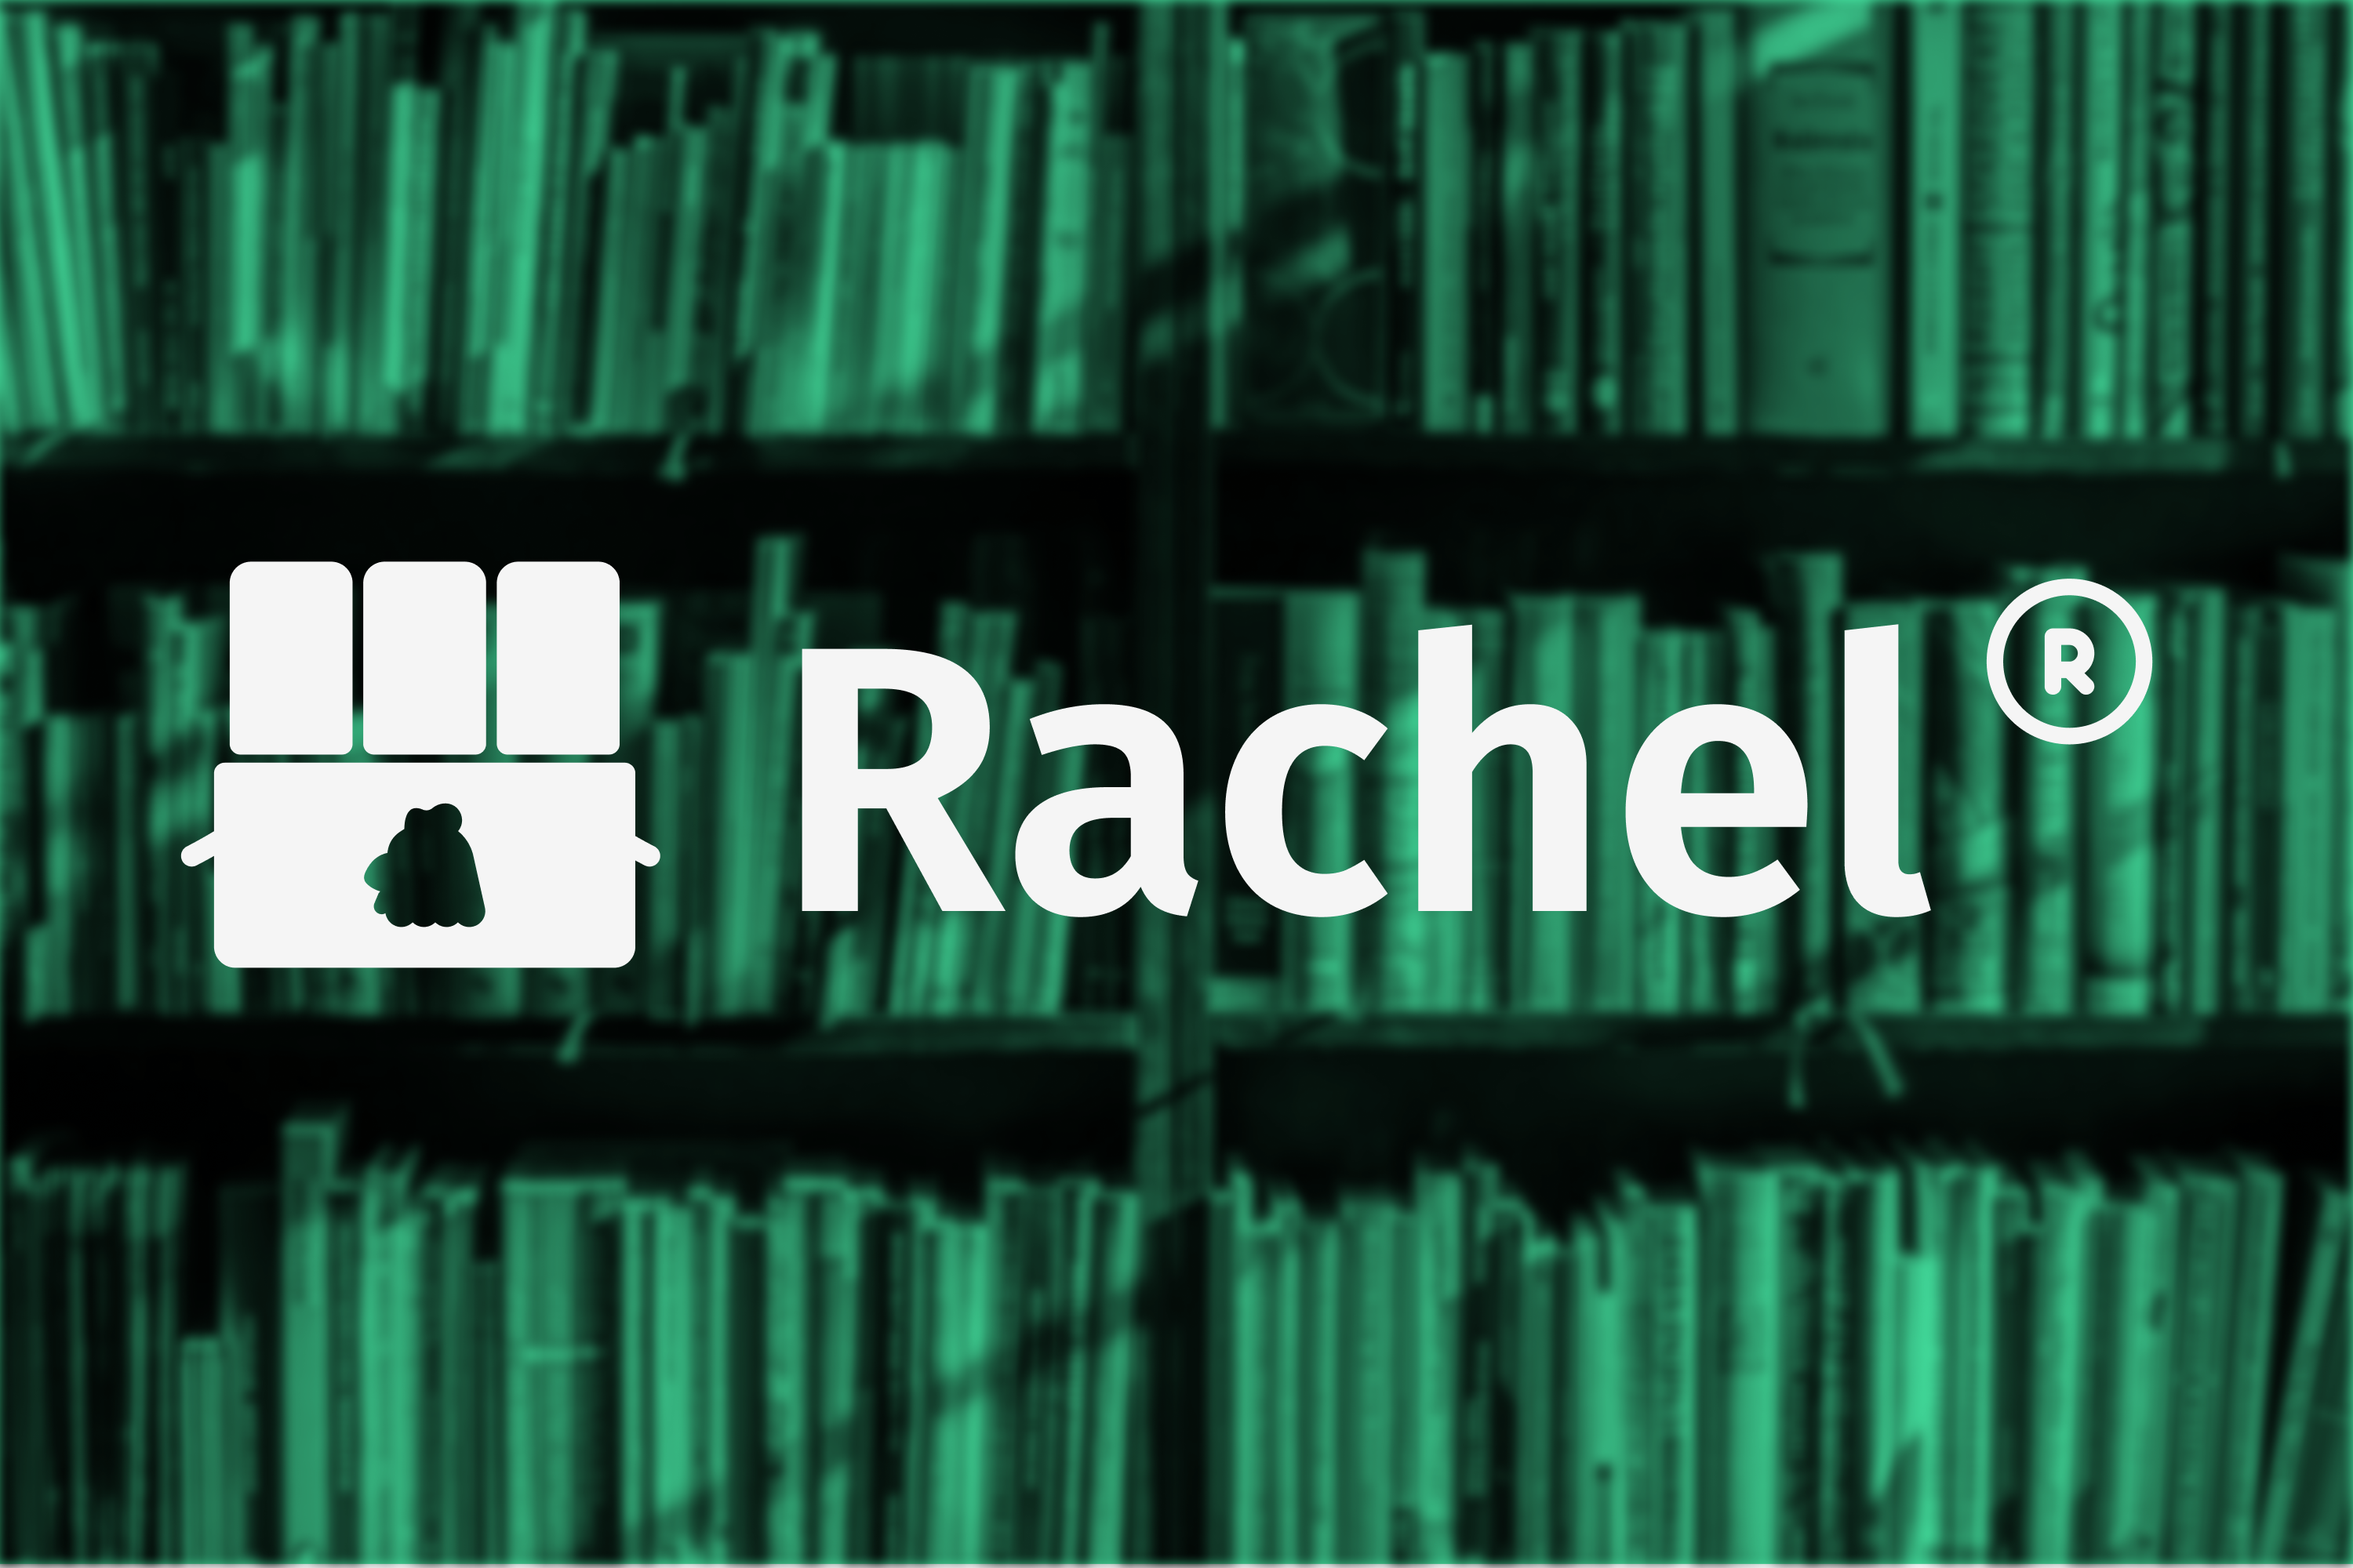
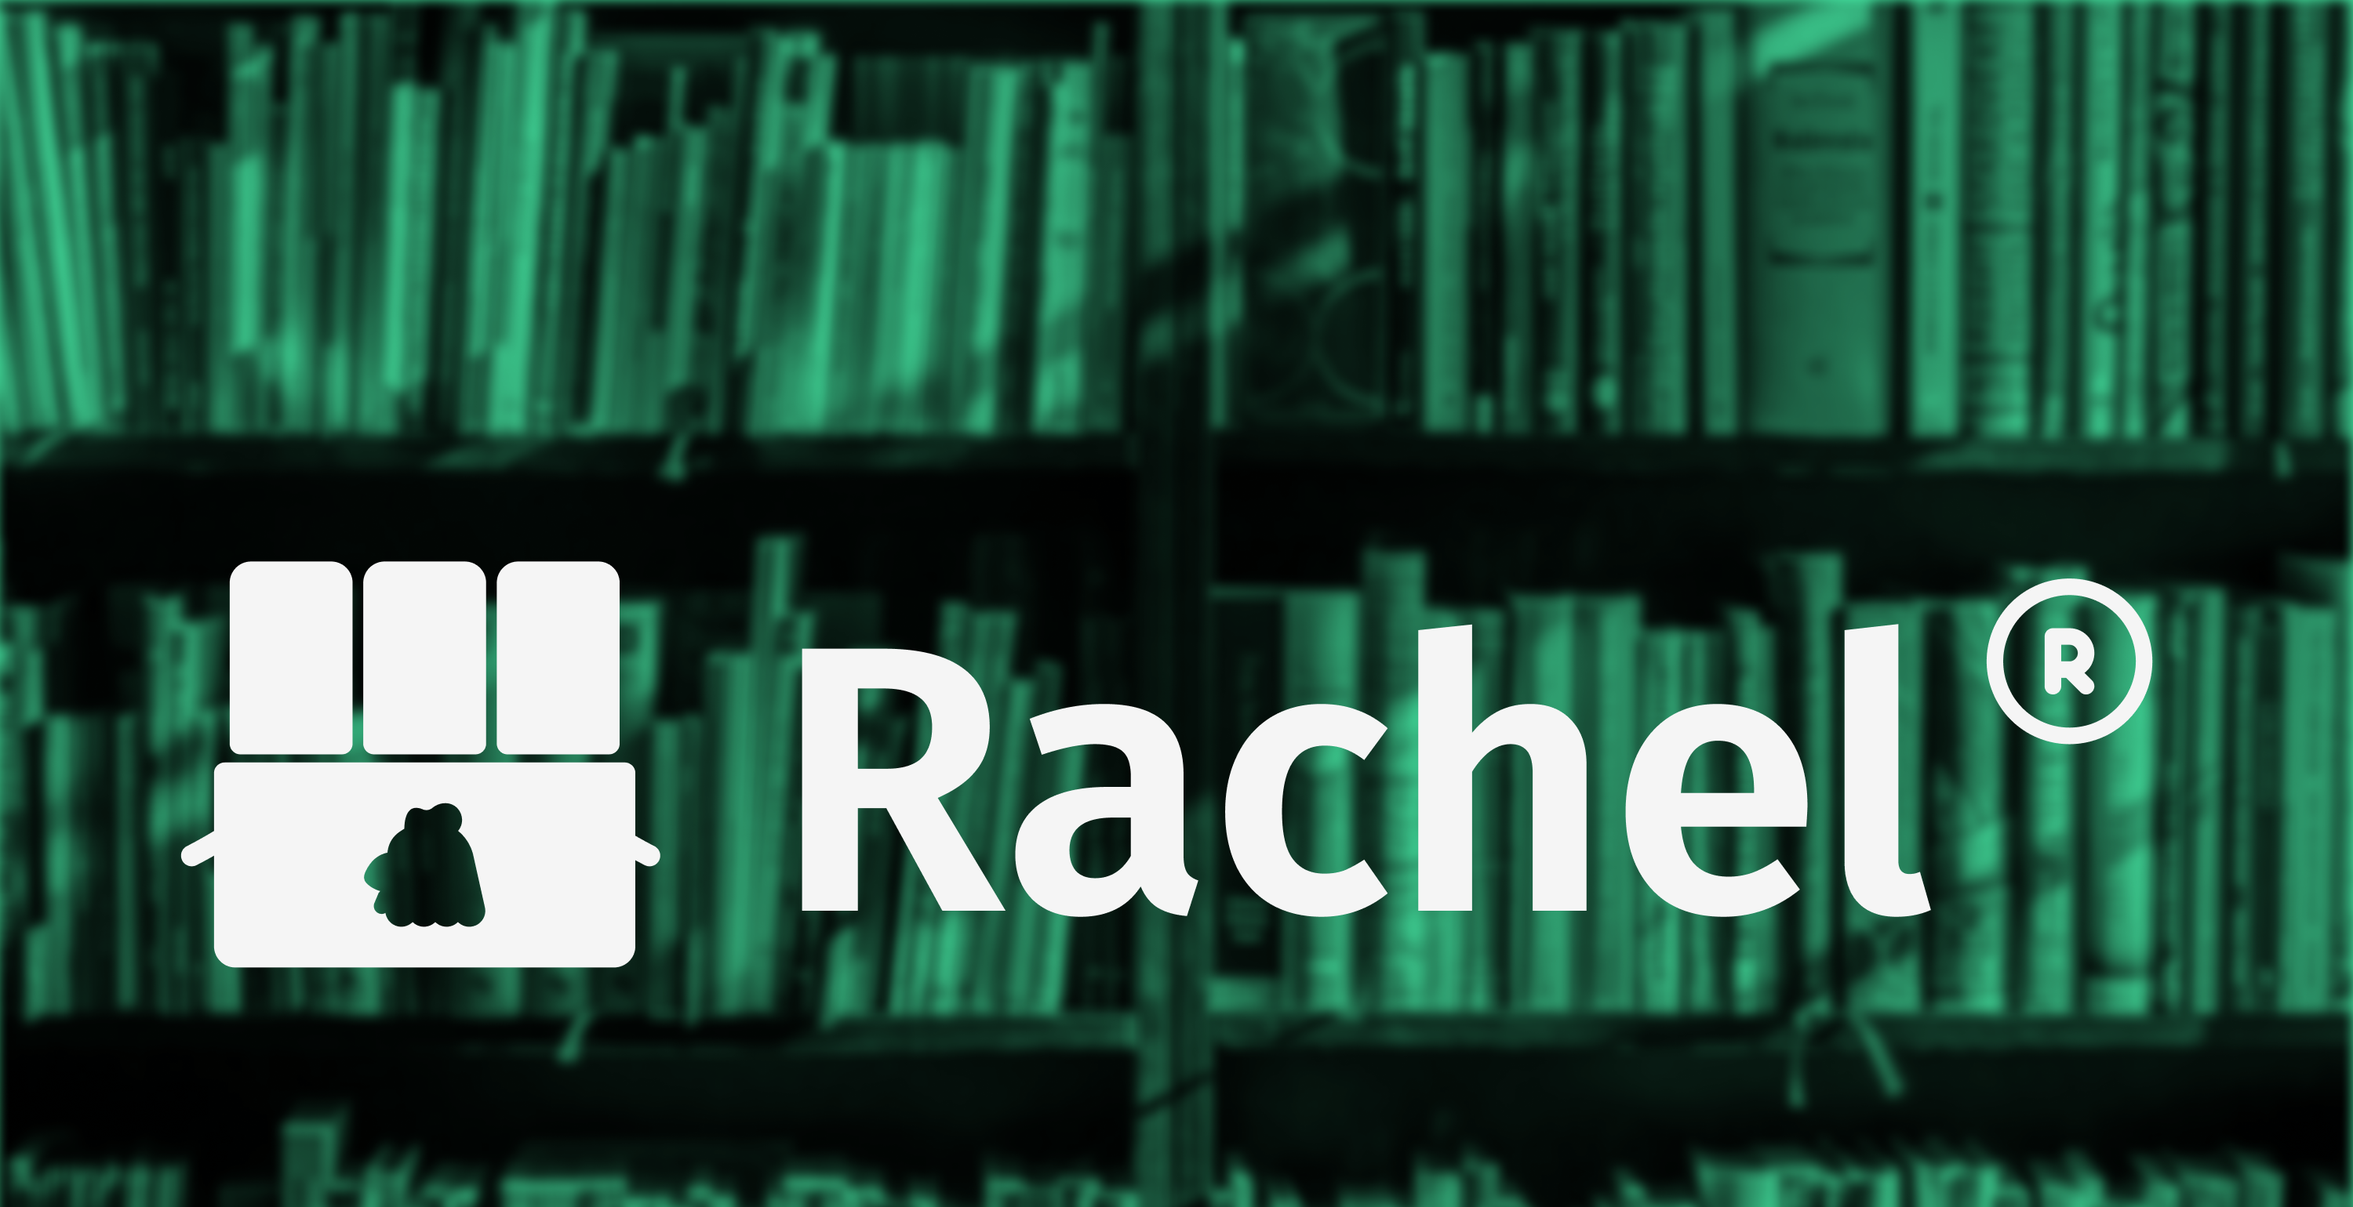
frame

diff --git a/src/app/profile/page.jsx b/src/app/profile/page.jsx
@@ -37,7 +37,7 @@ export default function ProfilePage() {
     <>
       <HeaderBar />
       <main className="bg-[#F5F5F5]">
-        <img className="absolute z-0" src="/frame.png" alt="Imagem de fundo" />
+        <img className="absolute z-0" src="/Frame.png" alt="Imagem de fundo" />
         <div className="relative z-10 flex w-full translate-y-8 justify-center">
           <Avatar className="h-36 w-36  border-4 border-white ">
             <AvatarImage className="" src={catSrc} />
